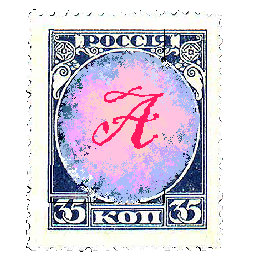
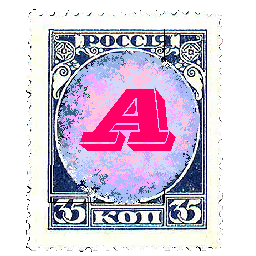
added radio/song and camera

Changed region(s): [[0.2188, 0.2188, 0.75, 0.75]]

diff --git a/style.css b/style.css
@@ -19,7 +19,7 @@ a {
 .hero {
   height: 100vh;
   background-color: #fceaffb1; 
-  background-image: url('dither_it_ghibli.gif'); 
+  background-image: url('ghibli.gif'); 
   background-repeat: no-repeat;
   background-size: cover;
   background-position: center;
@@ -31,13 +31,55 @@ a {
   padding: 2rem;
   position: relative;
   z-index: 1;
+  
 }
-
+.radio{
+  position: absolute;
+  top: 63%;
+  right: 20px;
+  width: auto;
+  height: 150px;
+  animation: float 3s ease-in-out infinite;
+  
+  
+}
+.song{
+  position: absolute;
+  top: 85%;
+  right: 20px;
+  width: 300px;
+  height: 80px;
+}
+.cam{
+  position:absolute;
+  top:80% ;
+  right:80%;
+  width: 200px;
+  height: auto;
+}
+.radio:hover{
+   filter: drop-shadow(0 0 5px #ff00bb)
+        drop-shadow(0 0 10px #bf47ff)
+        drop-shadow(0 0 20px #ff55e0);
+}
+@keyframes float {
+  0% { transform: translateY(0); }
+  50% { transform: translateY(-15px); }
+  100% { transform: translateY(0); }
+}
+.images{
+  height: 200px;
+  width: auto;
+}
+.imagess{
+  height: 160px;
+  width: auto;
+}
 .hero::before {
   content: "";
   position: absolute;
   inset: 0;
-  background-color: rgba(255, 255, 255, 0.105); 
+  background-color: rgba(255, 255, 255, 0.233); 
   z-index: -1;
 }
 
@@ -158,33 +200,3 @@ h2 {
     font-size: 1.5rem;
   }
 }
-
-#sprinkle-con {
-  position: fixed;
-  top: 0;
-  left: 0;
-  width: 100%;
-  height: 100%;
-  pointer-events: none;
-  z-index: 100000;
-}
-
-.sprinkle {
-  position: absolute;
-  top: 0;
-  font-size: 100px;
-  animation: fall 4s linear forwards;
-  opacity: 100;
-}
-
-@keyframes fall {
-  0% {
-    transform: translateY(-50px) rotate(0deg);
-    opacity: 100;
-  }
-  100% {
-    transform: translateY(100vh) rotate(360deg);
-    opacity: 0;
-  }
-}
-

diff --git a/index.html b/index.html
@@ -7,15 +7,19 @@
   <link rel="stylesheet" href="style.css" />
 </head>
 <body>
-
+ 
   <header class="hero">
-    <div class="content">
-      <img src="nehan.png" alt="">
-      <img src="letter-e-graphic-collection-circu-magical-furniture-4-removebg-preview.png" alt="">      
-      <img src="H.png" alt=""> 
-      <img src="a.png" alt="">
+   <iframe class="song" style="border-radius:12px" src="https://open.spotify.com/embed/track/6me7F0aaZjwDo6RJ5MrfBD?utm_source=generator" width="40%" height="152" frameBorder="0" allowfullscreen="" allow="autoplay; clipboard-write; encrypted-media; fullscreen; picture-in-picture" loading="lazy"></iframe>
+    <img class="radio" src="71a9BCIZBXL-removebg-preview.png" alt="">
+    <img class="cam" src="canon-eos-1000d-rebel-xs-review-canon_eos_1000d_front.png" alt="Canon EOS1000D">
+        
+        <img class="images" src="nehan.png" alt="The letter N">
+        <img class="images" src="letter-e-graphic-collection-circu-magical-furniture-4-removebg-preview.png" alt="">
+        <img class="imagess" src="letter-h-crumpled-newspaper-clean-white-background-fashion-scrapbook-lettering-concept-generative-ai-318621468-removebg-preview.png" alt="">
+        <img class="images" src="depositphotos_23388986-stock-photo-green-grass-letter-a-removebg-preview.png" alt="">
       
-    </div>
+      
+   
   </header>
 
 <section id="about" class="section pastel-blue">
